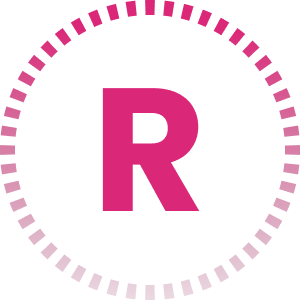
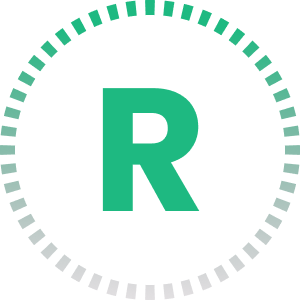
new tampilan

diff --git a/src/App.css b/src/App.css
@@ -4,7 +4,7 @@
 
 /* when user use background image please add this bg-image */
 body {
-  background-image: url("https://images.unsplash.com/photo-1566204978576-77f6addcef4d?ixlib=rb-1.2.1&ixid=MnwxMjA3fDB8MHxwaG90by1wYWdlfHx8fGVufDB8fHx8&auto=format&fit=crop&w=870&q=80");
+  background-image: url("https://images.unsplash.com/photo-1493515322954-4fa727e97985?ixlib=rb-1.2.1&ixid=MnwxMjA3fDB8MHxwaG90by1wYWdlfHx8fGVufDB8fHx8&auto=format&fit=crop&w=870&q=80");
   background-repeat: no-repeat;
   background-size: cover;
   background-position: center center;
@@ -21,7 +21,7 @@ body::after {
   left: 0;
   right: 0;
   z-index: -1; /* needed to keep in the background */
-  background: url("https://images.unsplash.com/photo-1566204978576-77f6addcef4d?ixlib=rb-1.2.1&ixid=MnwxMjA3fDB8MHxwaG90by1wYWdlfHx8fGVufDB8fHx8&auto=format&fit=crop&w=870&q=80")
+  background: url("https://images.unsplash.com/photo-1493515322954-4fa727e97985?ixlib=rb-1.2.1&ixid=MnwxMjA3fDB8MHxwaG90by1wYWdlfHx8fGVufDB8fHx8&auto=format&fit=crop&w=870&q=80")
     center center;
   background-size: cover;
 }
@@ -34,6 +34,7 @@ body::after {
 ::-webkit-scrollbar {
   width: 8px;
 }
+
 /* Track */
 ::-webkit-scrollbar-track {
   -webkit-box-shadow: inset 0 0 6px rgba(0, 0, 0, 0.3);

diff --git a/public/index.html b/public/index.html
@@ -4,14 +4,14 @@
     <meta charset="utf-8" />
     <link rel="icon" href="%PUBLIC_URL%/icon.png" />
     <meta name="viewport" content="width=device-width, initial-scale=1" />
-    <meta name="theme-color" content="#366E96" />
+    <meta name="theme-color" content="#1EB981" />
     <!-- Warna untuk Chrome, Firefox OS, Opera dan Vivaldi -->
-    <meta content="#366E96" name="theme-color" />
+    <meta content="#1EB981" name="theme-color" />
     <!-- Warna untuk Windows Phone -->
-    <meta content="#366E96" name="msapplication-navbutton-color" />
+    <meta content="#1EB981" name="msapplication-navbutton-color" />
     <!-- Warna untuk iOS Safari -->
     <meta content="yes" name="apple-mobile-web-app-capable" />
-    <meta content="#366E96" name="apple-mobile-web-app-status-bar-style" />
+    <meta content="#1EB981" name="apple-mobile-web-app-status-bar-style" />
     <meta name="title" content="Website Pribadi Refaldo " />
     <meta
       name="description"

diff --git a/src/App.js b/src/App.js
@@ -126,13 +126,6 @@ function App() {
               <div className="space  w-1/6"></div>
             </div>
           </a>
-        </div>
-        <div className="main mt-10 mb-20">
-          <div className="title">
-            <h1 className="font-extrabold	 text-lg tracking-wide text-white  ">
-              Work
-            </h1>
-          </div>
           <a
             className="App-link"
             href="https://dribbble.com/refaldoms"
@@ -165,6 +158,14 @@ function App() {
               <div className="space  w-1/6"></div>
             </div>
           </a>
+        </div>
+        <div className="main mt-10 mb-20">
+          <div className="title">
+            <h1 className="font-extrabold	 text-lg tracking-wide text-white  ">
+              Work
+            </h1>
+          </div>
+
           <a
             className="App-link"
             href="https://github.com/refaldodev"
